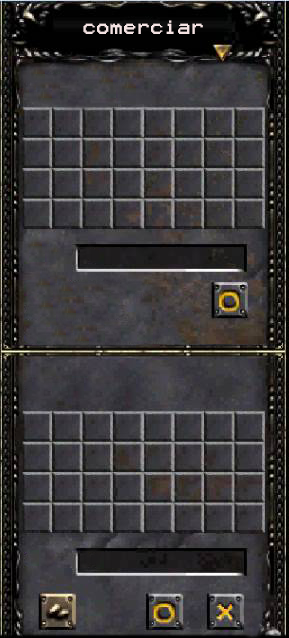
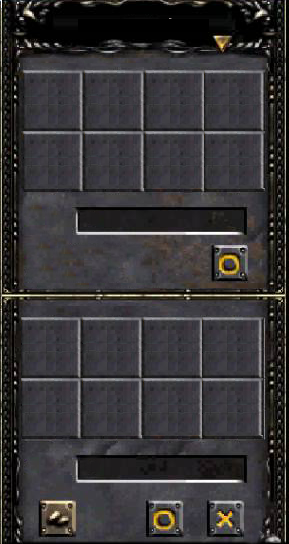
Interfaz Grafica de Comercio

Changed region(s): [[0.0, 0.4062, 0.9965, 1.0], [0.0, 0.0, 0.9965, 0.375], [0.4983, 0.4688, 0.5294, 0.5]]

diff --git a/src/main/java/interfaz/MenuComercio.java b/src/main/java/interfaz/MenuComercio.java
@@ -1,0 +1,96 @@
+package interfaz;
+
+import java.awt.Color;
+import java.awt.Font;
+import java.awt.Graphics;
+import java.awt.Rectangle;
+
+import juego.Pantalla;
+import mensajeria.PaquetePersonaje;
+import dominio.Item;
+import recursos.CargadorImagen;
+import recursos.Recursos;
+
+public class MenuComercio {
+
+	private static final int x = 400;
+	private static final int y = 25;
+	private static final int anchoBoton = 60;
+	private static final int[][] espaciosEnemigo = {{x + 22, y + 70}, {x + 82, y + 70}, {x + 142, y + 70}, {x + 202, y + 70},
+			{x + 22, y + 130}, {x + 82, y + 130}, {x + 142, y + 130}, {x + 202, y + 130}};
+	private static final int[][] espaciosPropios = {{x + 22, y + 320}, {x + 82, y + 320}, {x + 142, y + 320}, {x + 202, y + 320},
+			{x + 22, y + 380}, {x + 82, y + 380}, {x + 142, y + 380}, {x + 202, y + 380}};
+	private boolean habilitado;
+	private PaquetePersonaje personaje;
+	private PaquetePersonaje enemigo;
+	
+	public MenuComercio(boolean habilitado, PaquetePersonaje personaje, PaquetePersonaje enemigo) {
+		this.habilitado = habilitado;
+		this.personaje = personaje;
+		this.enemigo = enemigo;
+	}		
+
+	
+	public void graficar(Graphics g) {
+
+		g.drawImage(Recursos.menuMercado, x, y, null);
+
+		// Dibujo los items de los personajes
+		for(int i = 1; i <= 6; i++) {
+			Item item = this.enemigo.getItem(i);
+			if( item != null ) {
+				g.drawImage(CargadorImagen.cargarImagen("/armamento/" + item.getFoto()), espaciosEnemigo[i - 1][0],
+						espaciosEnemigo[i - 1][1], anchoBoton, anchoBoton, null); 
+			}
+		}
+		
+		for(int i = 1; i <= 6; i++) {
+			Item item = this.personaje.getItem(i);
+			if( item != null ) {
+				g.drawImage(CargadorImagen.cargarImagen("/armamento/" + item.getFoto()), espaciosPropios[i - 1][0],
+						espaciosPropios[i - 1][1], anchoBoton, anchoBoton, null); 
+			}
+		}
+
+		// Dibujo las leyendas
+//		g.setFont(new Font("Book Antiqua", 1, 14));
+//		g.drawString(personaje.getHabilidadesRaza()[0], x + 95, y + 94);
+//		g.drawString(personaje.getHabilidadesRaza()[1], x + 95, y + 168);
+//		g.drawString(personaje.getHabilidadesCasta()[0], x + 268, y + 94);
+//		g.drawString(personaje.getHabilidadesCasta()[1], x + 268, y + 168);
+//		g.drawString(personaje.getHabilidadesCasta()[2], x + 442, y + 94);
+//		g.drawString("Ser energizado", x + 442, y + 168);
+
+		// Dibujo el turno de quien es
+		g.setFont(new Font("Book Antiqua", 1, 14));
+		g.setColor(Color.WHITE);
+		if (habilitado)
+			Pantalla.centerString(g, new Rectangle(x, y + 10, Recursos.menuMercado.getWidth(), 25), "Mi Turno");
+		else
+			Pantalla.centerString(g, new Rectangle(x, y + 10, Recursos.menuMercado.getWidth(), 25), "Turno Rival");
+
+	}
+
+//	public int getBotonClickeado(int mouseX, int mouseY) {
+//		if (!habilitado)
+//			return 0;
+//		for (int i = 0; i < botones.length; i++) {
+//			if (mouseX >= botones[i][0] && mouseX <= botones[i][0] + anchoBoton && mouseY >= botones[i][1]
+//					&& mouseY <= botones[i][1] + anchoBoton)
+//				return i + 1;
+//		}
+//		return 0;
+//	}
+//
+//	public boolean clickEnMenu(int mouseX, int mouseY) {
+//		if (mouseX >= x && mouseX <= x + Recursos.menuBatalla.getWidth() && mouseY >= y
+//				&& mouseY <= y + Recursos.menuBatalla.getHeight())
+//			return habilitado;
+//		return false;
+//	}
+//
+//	public void setHabilitado(boolean b) {
+//		habilitado = b;
+//	}
+
+}

diff --git a/src/main/java/estados/EstadoComercio.java b/src/main/java/estados/EstadoComercio.java
@@ -1,0 +1,105 @@
+package estados;
+
+import java.awt.Color;
+import java.awt.Graphics;
+import java.awt.image.BufferedImage;
+import java.util.Map;
+
+import com.google.gson.Gson;
+
+import dominio.Item;
+import interfaz.MenuComercio;
+import juego.Juego;
+import mensajeria.PaqueteComercio;
+import mensajeria.PaquetePersonaje;
+import mundo.Mundo;
+import recursos.Recursos;
+
+public class EstadoComercio extends Estado {
+
+	private Mundo mundo;
+	private int[] posMouse;
+	private PaquetePersonaje paquetePersonaje;
+	private PaquetePersonaje paqueteEnemigo;
+//	private PaqueteAtacar paqueteAtacar;
+//	private PaqueteFinalizarBatalla paqueteFinalizarBatalla;
+	private boolean miTurno;
+	private boolean haySpellSeleccionada;
+	private boolean seRealizoAccion;
+
+	private Gson gson = new Gson();
+
+//	private BufferedImage miniaturaPersonaje;
+//	private BufferedImage miniaturaEnemigo;
+
+	private MenuComercio menuComercio;
+
+	public EstadoComercio(Juego juego, PaqueteComercio paqueteComercio) {
+		super(juego);
+		mundo = new Mundo(juego, "recursos/mundoComercio.txt", "");
+		miTurno = paqueteComercio.isMiTurno();
+
+		paquetePersonaje = juego.getEscuchaMensajes().getPersonajesConectados().get(paqueteComercio.getId());
+		paqueteEnemigo = juego.getEscuchaMensajes().getPersonajesConectados().get(paqueteComercio.getIdEnemigo());
+
+		menuComercio = new MenuComercio(miTurno, paquetePersonaje, paqueteEnemigo);
+
+//		miniaturaEnemigo = Recursos.personaje.get(enemigo.getNombreRaza()).get(5)[0];
+//		miniaturaPersonaje = Recursos.personaje.get(personaje.getNombreRaza()).get(5)[0];
+
+//		paqueteFinalizarBatalla = new PaqueteFinalizarBatalla();
+//		paqueteFinalizarBatalla.setId(personaje.getIdPersonaje());
+//		paqueteFinalizarBatalla.setIdEnemigo(enemigo.getIdPersonaje());
+
+		// por defecto batalla perdida
+//		juego.getEstadoJuego().setHaySolicitud(true, juego.getPersonaje(), MenuInfoPersonaje.menuPerderBatalla);
+
+		// limpio la accion del mouse
+		juego.getHandlerMouse().setNuevoClick(false);
+
+	}
+
+	@Override
+	public void actualizar() {
+
+		juego.getCamara().setxOffset(-350);
+		juego.getCamara().setyOffset(150);
+
+		seRealizoAccion = false;
+		haySpellSeleccionada = false;
+
+		if (miTurno) {
+
+			if (juego.getHandlerMouse().getNuevoClick()) {
+				posMouse = juego.getHandlerMouse().getPosMouse();
+
+				//TODO: Capturar clics en menuComercio
+				
+				if (haySpellSeleccionada && seRealizoAccion) {
+					//TODO: Armar paqueteIntercambiar
+				}
+				
+
+				juego.getHandlerMouse().setNuevoClick(false);
+			}
+		}
+
+	}
+
+	@Override
+	public void graficar(Graphics g) {
+
+		g.setColor(Color.BLACK);
+		g.fillRect(0, 0, juego.getAncho(), juego.getAlto());
+		mundo.graficar(g);
+
+		g.drawImage(Recursos.personaje.get(paquetePersonaje.getRaza()).get(2)[0], 0, 300, 256, 256, null);
+		g.drawImage(Recursos.personaje.get(paqueteEnemigo.getRaza()).get(6)[0], 0, 50, 256, 256, null);
+
+		mundo.graficarObstaculos(g);
+		menuComercio.graficar(g);
+
+		g.setColor(Color.GREEN);
+	}
+	
+}

diff --git a/src/main/java/cliente/EscuchaMensajes.java b/src/main/java/cliente/EscuchaMensajes.java
@@ -10,11 +10,13 @@ import com.google.gson.Gson;
 
 import estados.Estado;
 import estados.EstadoBatalla;
+import estados.EstadoComercio;
 import juego.Juego;
 import mensajeria.Comando;
 import mensajeria.Paquete;
 import mensajeria.PaqueteAtacar;
 import mensajeria.PaqueteBatalla;
+import mensajeria.PaqueteComercio;
 import mensajeria.PaqueteDeMovimientos;
 import mensajeria.PaqueteDePersonajes;
 import mensajeria.PaqueteFinalizarBatalla;
@@ -47,6 +49,7 @@ public class EscuchaMensajes extends Thread {
 			PaquetePersonaje paquetePersonaje;
 			PaqueteMovimiento personaje;
 			PaqueteBatalla paqueteBatalla;
+			PaqueteComercio paqueteComercio;
 			PaqueteAtacar paqueteAtacar;
 			PaqueteFinalizarBatalla paqueteFinalizarBatalla;
 			personajesConectados = new HashMap<>();
@@ -76,6 +79,14 @@ public class EscuchaMensajes extends Thread {
 					Estado.setEstado(null);
 					juego.setEstadoBatalla(new EstadoBatalla(juego, paqueteBatalla));
 					Estado.setEstado(juego.getEstadoBatalla());
+					break;
+
+				case Comando.COMERCIO:
+					paqueteComercio = gson.fromJson(objetoLeido, PaqueteComercio.class);
+					juego.getPersonaje().setEstado(Estado.estadoComercio);
+					Estado.setEstado(null);
+					juego.setEstadoComercio(new EstadoComercio(juego, paqueteComercio));
+					Estado.setEstado(juego.getEstadoComercio());
 					break;
 
 				case Comando.ATACAR:

diff --git a/src/main/java/entidades/Entidad.java b/src/main/java/entidades/Entidad.java
@@ -15,6 +15,7 @@ import com.google.gson.Gson;
 import juego.Juego;
 import juego.Pantalla;
 import mensajeria.PaqueteBatalla;
+import mensajeria.PaqueteComercio;
 import mensajeria.PaqueteMovimiento;
 import mundo.Grafo;
 import mundo.Mundo;
@@ -164,6 +165,20 @@ public class Entidad {
 
 							try {
 								juego.getCliente().getSalida().writeObject(gson.toJson(pBatalla));
+							} catch (IOException e) {
+								JOptionPane.showMessageDialog(null, "Fallo la conexión con el servidor");
+								e.printStackTrace();
+							}
+						} else if (juego.getEstadoJuego().getTipoSolicitud() == MenuInfoPersonaje.menuComerciar) {
+							PaqueteComercio pComercio = new PaqueteComercio();
+							
+							pComercio.setId(juego.getPersonaje().getId());
+							pComercio.setIdEnemigo(idEnemigo);
+
+							juego.getEstadoJuego().setHaySolicitud(false, null, 0);
+
+							try {
+								juego.getCliente().getSalida().writeObject(gson.toJson(pComercio));
 							} catch (IOException e) {
 								JOptionPane.showMessageDialog(null, "Fallo la conexión con el servidor");
 								e.printStackTrace();

diff --git a/src/main/java/juego/Juego.java b/src/main/java/juego/Juego.java
@@ -11,6 +11,7 @@ import cliente.EscuchaMensajes;
 import dominio.Personaje;
 import estados.Estado;
 import estados.EstadoBatalla;
+import estados.EstadoComercio;
 import estados.EstadoJuego;
 import mensajeria.PaqueteMensaje;
 import mensajeria.PaqueteMovimiento;
@@ -34,6 +35,7 @@ public class Juego implements Runnable {
 	// Estados
 	private Estado estadoJuego;
 	private Estado estadoBatalla;
+	private Estado estadoComercio;
 
 	// HandlerMouse
 	private HandlerMouse handlerMouse;
@@ -213,6 +215,14 @@ public class Juego implements Runnable {
 
 	public void setEstadoBatalla(EstadoBatalla estadoBatalla) {
 		this.estadoBatalla = estadoBatalla;
+	}
+
+	public EstadoComercio getEstadoComercio() {
+		return (EstadoComercio) estadoComercio;
+	}
+
+	public void setEstadoComercio(EstadoComercio estadoComercio) {
+		this.estadoComercio = estadoComercio;
 	}
 
 	public Cliente getCliente() {

diff --git a/src/main/resources/recursos/Recursos.java b/src/main/resources/recursos/Recursos.java
@@ -75,6 +75,7 @@ public class Recursos {
 	public static BufferedImage barraExperiencia;
 	public static BufferedImage menuBatalla;
 	public static BufferedImage menuBatallaDeshabilitado;
+	public static BufferedImage menuMercado;
 
 	public static Map<String, BufferedImage> habilidades = new HashMap<>();
 	// Fin Batalla
@@ -424,6 +425,9 @@ public class Recursos {
 
 		menuBatallaDeshabilitado = CargadorImagen.cargarImagen("/MenuBatallaDeshabilitado.png");
 		actualizarBarraDeCarga(++elementosCargados, menuCarga);
+
+		menuMercado = CargadorImagen.cargarImagen("/mercado/mercado.png");
+		actualizarBarraDeCarga(++elementosCargados, menuCarga);		
 		// Fin Batalla
 	}
 

diff --git a/src/main/java/estados/Estado.java b/src/main/java/estados/Estado.java
@@ -12,6 +12,7 @@ public abstract class Estado {
 	public static int estadoOffline = 0;
 	public static int estadoJuego = 1;
 	public static int estadoBatalla = 2;
+	public static int estadoComercio = 3;
 
 	protected Juego juego;
 
